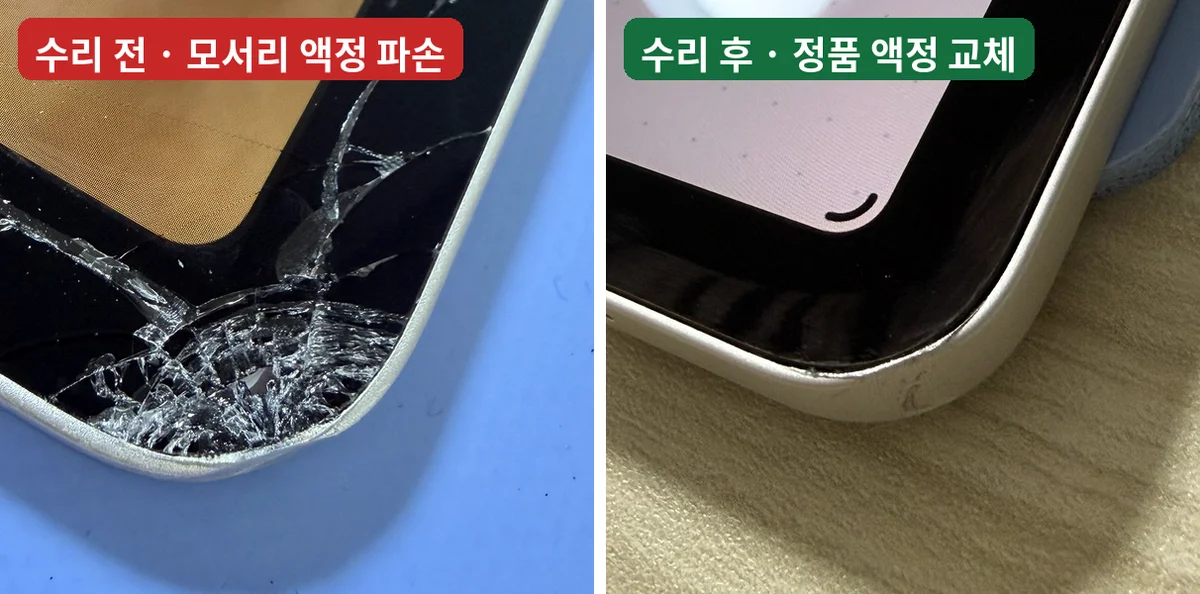
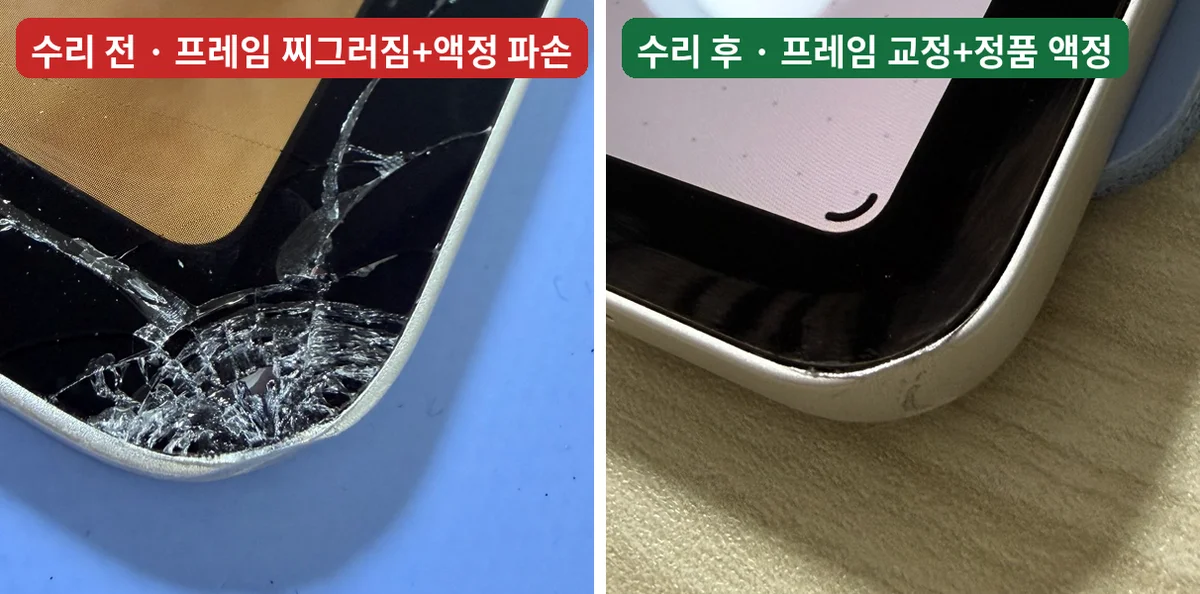
광주 아이패드 에어 11 M2 초안: 프레임 교정 이유 섹션·비교 라벨·11인치 반영 (draft)
Claude-Session: https://claude.ai/code/session_01GKuoYgx4jjQMsMoCYLGCHG

Changed region(s): [[0.0, 0.0303, 0.4933, 0.1515], [0.5242, 0.0303, 0.9558, 0.1515]]

diff --git a/content/blog/광주-아이패드-액정-수리-에어-m2-모서리-파손-택배수리-후기.md b/content/blog/광주-아이패드-액정-수리-에어-m2-모서리-파손-택배수리-후기.md
@@ -1,6 +1,6 @@
 ---
-title: 광주 아이패드 액정 수리, 택배로 맡겨도 될까요? 아이패드 에어 M2 모서리 파손 택배 수리 후기
-description: 광주에서 아이패드 액정 수리가 필요하다면 택배로 보내주시면 돼요. 모서리로 떨어져 프레임이 찌그러지고 액정이 깨진 아이패드 에어 M2를 수리 전 꼼꼼히 점검하고 정품 액정으로 교체한 뒤, 흰 화면 최대 밝기·해상도·터치·카메라·지문 인식·애플펜슬까지 확인해 택배 받은 날 수리를 마친 후기예요.
+title: 광주 아이패드 액정 수리, 택배로 맡겨도 될까요? 아이패드 에어 11 M2 프레임 교정 택배 수리 후기
+description: 광주에서 아이패드 액정 수리가 필요하다면 택배로 보내주시면 돼요. 모서리로 떨어져 프레임이 찌그러지고 액정이 깨진 아이패드 에어 11 M2를, 새 액정이 제대로 안착되도록 찌그러진 프레임부터 교정한 뒤 정품 액정으로 교체하고, 흰 화면 최대 밝기·해상도·터치·카메라·지문 인식·애플펜슬까지 확인해 택배 받은 날 수리를 마친 후기예요.
 date: 2026-11-27
 service: ipad-screen
 area: gwangju
@@ -10,20 +10,20 @@ question: q045
 draft: true
 ---
 
-**광주에서 아이패드 액정 수리가 필요하다면, 택배로 보내주시면 상도동 세이프픽스가 직접 점검하고 정품 액정으로 교체해 다시 보내드려요.** 이번 아이패드 에어 M2는 모서리로 떨어져 프레임이 찌그러지고 액정이 깨진 상태였는데, 택배 받은 날 수리를 마쳤어요.
+**광주에서 아이패드 액정 수리가 필요하다면, 택배로 보내주시면 상도동 세이프픽스가 직접 점검하고 정품 액정으로 교체해 다시 보내드려요.** 이번 아이패드 에어 11 M2는 모서리로 떨어져 프레임이 찌그러지고 액정이 깨진 상태였어요. 새 액정이 들뜨지 않고 제대로 안착되도록 찌그러진 프레임부터 교정한 뒤 정품 액정으로 교체해, 택배 받은 날 수리를 마쳤어요.
 
 | 항목 | 내용 |
 |---|---|
 | 지역 | 광주 |
 | 기기 | 아이패드 에어 11인치 M2 |
 | 증상 | 모서리 낙하 충격으로 프레임 찌그러짐 + 액정 파손 |
-| 수리 | 수리 전 점검 → 정품 액정 교체 → 기능 점검 |
+| 수리 | 수리 전 점검 → 프레임 교정 → 정품 액정 교체 → 기능 점검 |
 | 기간 | 택배 받은 날 수리 완료 |
 | 접수 | 택배 수리 |
 
-![광주 아이패드 에어 M2 수리 전후 비교: 왼쪽은 모서리 액정 파손, 오른쪽은 정품 액정으로 교체한 모습](/images/posts/ipad-air-m2-gwangju-corner-before-after.webp)
+![광주 아이패드 에어 11 M2 수리 전후 비교: 왼쪽은 모서리 액정 파손, 오른쪽은 정품 액정으로 교체한 모습](/images/posts/ipad-air-m2-gwangju-corner-before-after.webp)
 
-![광주 아이패드 에어 M2 수리 전후 전체 비교](/images/posts/ipad-air-m2-gwangju-full-before-after.webp)
+![광주 아이패드 에어 11 M2 수리 전후 전체 비교](/images/posts/ipad-air-m2-gwangju-full-before-after.webp)
 
 ## 01 광주에서 아이패드를 맡기려면 어떻게 하나요?
 
@@ -32,7 +32,7 @@ draft: true
 1. **문의**: 증상과 모델을 알려주세요.
 2. **발송**: 아이패드를 상도동 세이프픽스로 택배 발송해요.
 3. **수리 전 점검**: 도착한 상태를 꼼꼼히 확인하고 연락드려요.
-4. **수리·기능 점검**: 정품 액정으로 교체하고 기능을 하나하나 확인해요.
+4. **수리·기능 점검**: 찌그러진 프레임이 있으면 먼저 교정하고, 정품 액정으로 교체한 뒤 기능을 하나하나 확인해요.
 5. **출고**: 점검을 마치고 다시 택배로 보내드려요.
 
 ![광주에서 상도동 세이프픽스로 보내주신 택배 송장 (개인정보는 가렸어요)](/images/posts/ipad-air-m2-gwangju-parcel-label.webp)
@@ -41,27 +41,36 @@ draft: true
 
 **모서리는 충격이 한 점에 몰리는 곳이라, 금속 프레임이 찌그러지면서 그 힘이 바로 옆 액정 유리까지 전해지기 때문이에요.** 이번 아이패드도 떨어진 모서리를 중심으로 유리가 거미줄처럼 깨지고, 프레임 모서리가 찌그러져 있었어요.
 
-![모서리 낙하 충격으로 프레임이 찌그러지고 액정이 깨진 아이패드 에어 M2 클로즈업](/images/posts/ipad-air-m2-gwangju-corner-dent-crack-closeup.webp)
+![모서리 낙하 충격으로 프레임이 찌그러지고 액정이 깨진 아이패드 에어 11 M2 클로즈업](/images/posts/ipad-air-m2-gwangju-corner-dent-crack-closeup.webp)
 
-![아이패드 에어 M2 아래쪽 모서리 액정 파손](/images/posts/ipad-air-m2-gwangju-screen-crack-bottom-corner.webp)
+![아이패드 에어 11 M2 아래쪽 모서리 액정 파손](/images/posts/ipad-air-m2-gwangju-screen-crack-bottom-corner.webp)
 
-![아이패드 에어 M2 위쪽 모서리까지 번진 액정 파손](/images/posts/ipad-air-m2-gwangju-screen-crack-top-corner.webp)
+![아이패드 에어 11 M2 위쪽 모서리까지 번진 액정 파손](/images/posts/ipad-air-m2-gwangju-screen-crack-top-corner.webp)
 
 ![수리 전 잠금 화면: 화면은 켜지지만 모서리 액정이 깨진 상태](/images/posts/ipad-air-m2-gwangju-before-lockscreen.webp)
 
-### 광주 아이패드 액정 수리 후기: 아이패드 에어 M2, 모서리 파손 택배 수리
+### 광주 아이패드 액정 수리 후기: 아이패드 에어 11 M2, 모서리 파손 택배 수리
 
-광주에서 택배로 보내주신 아이패드 에어 M2예요. 수리 전에 프레임 상태와 내부를 꼼꼼히 점검한 뒤, 정품 액정으로 교체했어요.
+광주에서 택배로 보내주신 아이패드 에어 11인치 M2예요. 수리 전에 프레임 상태와 내부를 꼼꼼히 점검하고, 찌그러진 모서리 프레임을 교정한 뒤 정품 액정으로 교체했어요.
 
-![액정을 분리해 내부를 점검하는 아이패드 에어 M2](/images/posts/ipad-air-m2-gwangju-opened-display.webp)
+![액정을 분리해 내부를 점검하는 아이패드 에어 11 M2](/images/posts/ipad-air-m2-gwangju-opened-display.webp)
 
 ![분리한 액정과 본체](/images/posts/ipad-air-m2-gwangju-display-and-body.webp)
 
 ![찌그러진 프레임 모서리 안쪽 상태](/images/posts/ipad-air-m2-gwangju-frame-dent-inside.webp)
 
-![새 액정을 맞춘 뒤 모서리 단차를 확인하는 모습](/images/posts/ipad-air-m2-gwangju-frame-corrected-corner.webp)
+![찌그러진 프레임 모서리를 교정한 뒤 새 액정이 들뜨지 않고 안착됐는지 확인하는 모습](/images/posts/ipad-air-m2-gwangju-frame-corrected-corner.webp)
 
-## 03 아이패드 액정 교체 후 무엇을 확인하나요?
+## 03 액정만 바꾸면 안 되고 프레임 교정이 필요한 이유는?
+
+**찌그러진 프레임을 그대로 두면 새 액정이 프레임에 평평하게 안착되지 않기 때문이에요.** 모서리가 안쪽으로 휘어 있으면 그 자리에서 액정이 들뜨거나 틈이 생기고, 휜 부분이 새 액정을 계속 눌러 다시 깨지거나 터치·펜슬 인식에 문제가 생길 수 있어요. 그래서 세이프픽스는 액정을 붙이기 전에 찌그러진 프레임부터 교정해요.
+
+| 프레임 상태 | 액정을 붙이면 생길 수 있는 일 |
+|---|---|
+| 찌그러진 채로 교체 | 모서리 들뜸·틈, 휜 부분이 액정을 눌러 재파손 위험 |
+| 프레임 교정 후 교체 | 액정이 평평하게 안착되고 모서리 단차가 줄어듦 |
+
+## 04 아이패드 액정 교체 후 무엇을 확인하나요?
 
 **라이트 모드에서 밝기를 최대로 올린 흰 화면으로 이상 증상이 없는지 보고, 해상도·밝기감·손 터치·카메라·지문 인식, 그리고 가장 중요한 애플펜슬이 끊기지 않는지까지 확인해요.**
 
@@ -86,15 +95,15 @@ draft: true
 
 ![애플펜슬로 원을 이어 그려 끊김 없이 그려지는지 확인](/images/posts/ipad-air-m2-gwangju-pencil-test-circles.webp)
 
-![애플펜슬 테스트를 마친 아이패드 에어 M2](/images/posts/ipad-air-m2-gwangju-pencil-test-after.webp)
+![애플펜슬 테스트를 마친 아이패드 에어 11 M2](/images/posts/ipad-air-m2-gwangju-pencil-test-after.webp)
 
-![정품 액정으로 교체한 아이패드 에어 M2 모서리](/images/posts/ipad-air-m2-gwangju-corner-after.webp)
+![프레임 교정 후 정품 액정이 모서리까지 안착된 아이패드 에어 11 M2](/images/posts/ipad-air-m2-gwangju-corner-after.webp)
 
-![수리를 마친 아이패드 에어 M2 아래쪽 측면](/images/posts/ipad-air-m2-gwangju-bottom-edge-after.webp)
+![수리를 마친 아이패드 에어 11 M2 아래쪽 측면](/images/posts/ipad-air-m2-gwangju-bottom-edge-after.webp)
 
 | 수리 전 | 수리 후 |
 |---|---|
-| 모서리 낙하로 액정 파손, 프레임 찌그러짐 | 정품 액정 교체 |
+| 모서리 낙하로 액정 파손, 프레임 찌그러짐 | 프레임 교정 후 정품 액정 교체, 모서리까지 안착 |
 | - | 흰 화면·해상도·밝기·터치·카메라·지문 인식 정상 |
 | - | 애플펜슬 끊김 없이 호환 |
 | 광주에서 맡길 곳 고민 | 택배 받은 날 수리 완료 |
@@ -121,11 +130,15 @@ draft: true
 
 ### 광주에서 아이패드 택배 수리는 얼마나 걸리나요?
 
-이번 아이패드 에어 M2는 택배 받은 날 수리를 마쳤어요. 배송 기간은 따로 더해지고, 부품이나 상태에 따라 달라질 수 있어요.
+이번 아이패드 에어 11 M2는 택배 받은 날 수리를 마쳤어요. 배송 기간은 따로 더해지고, 부품이나 상태에 따라 달라질 수 있어요.
 
 ### 택배로 보내면 진행 상황을 알 수 있나요?
 
 네. 수리 전 점검부터 중간 진행 상황, 수리 완료까지 공유해 드려요.
+
+### 프레임이 찌그러졌는데 액정만 교체하면 안 되나요?
+
+찌그러진 프레임을 그대로 두면 새 액정이 평평하게 안착되지 않아 들뜨거나 다시 깨질 수 있어요. 그래서 프레임을 먼저 교정한 뒤 액정을 교체해요.
 
 ### 아이패드 액정 교체 후 애플펜슬도 잘 되나요?
 
@@ -137,4 +150,4 @@ draft: true
 
 ## 광주에서 아이패드 액정이 깨지셨나요?
 
-가까운 곳을 찾기 어렵다면 택배로 보내주세요. 점검부터 완료까지 공유해 드리고, 기능 점검을 마쳐 다시 보내드려요. 자세한 안내는 [아이패드 액정수리](/services/ipad-screen)에서 확인하실 수 있어요.
+가까운 곳을 찾기 어렵다면 택배로 보내주세요. 프레임이 찌그러졌다면 교정까지 함께 해드려요. 점검부터 완료까지 공유해 드리고, 기능 점검을 마쳐 다시 보내드려요. 자세한 안내는 [아이패드 액정수리](/services/ipad-screen)에서 확인하실 수 있어요.
